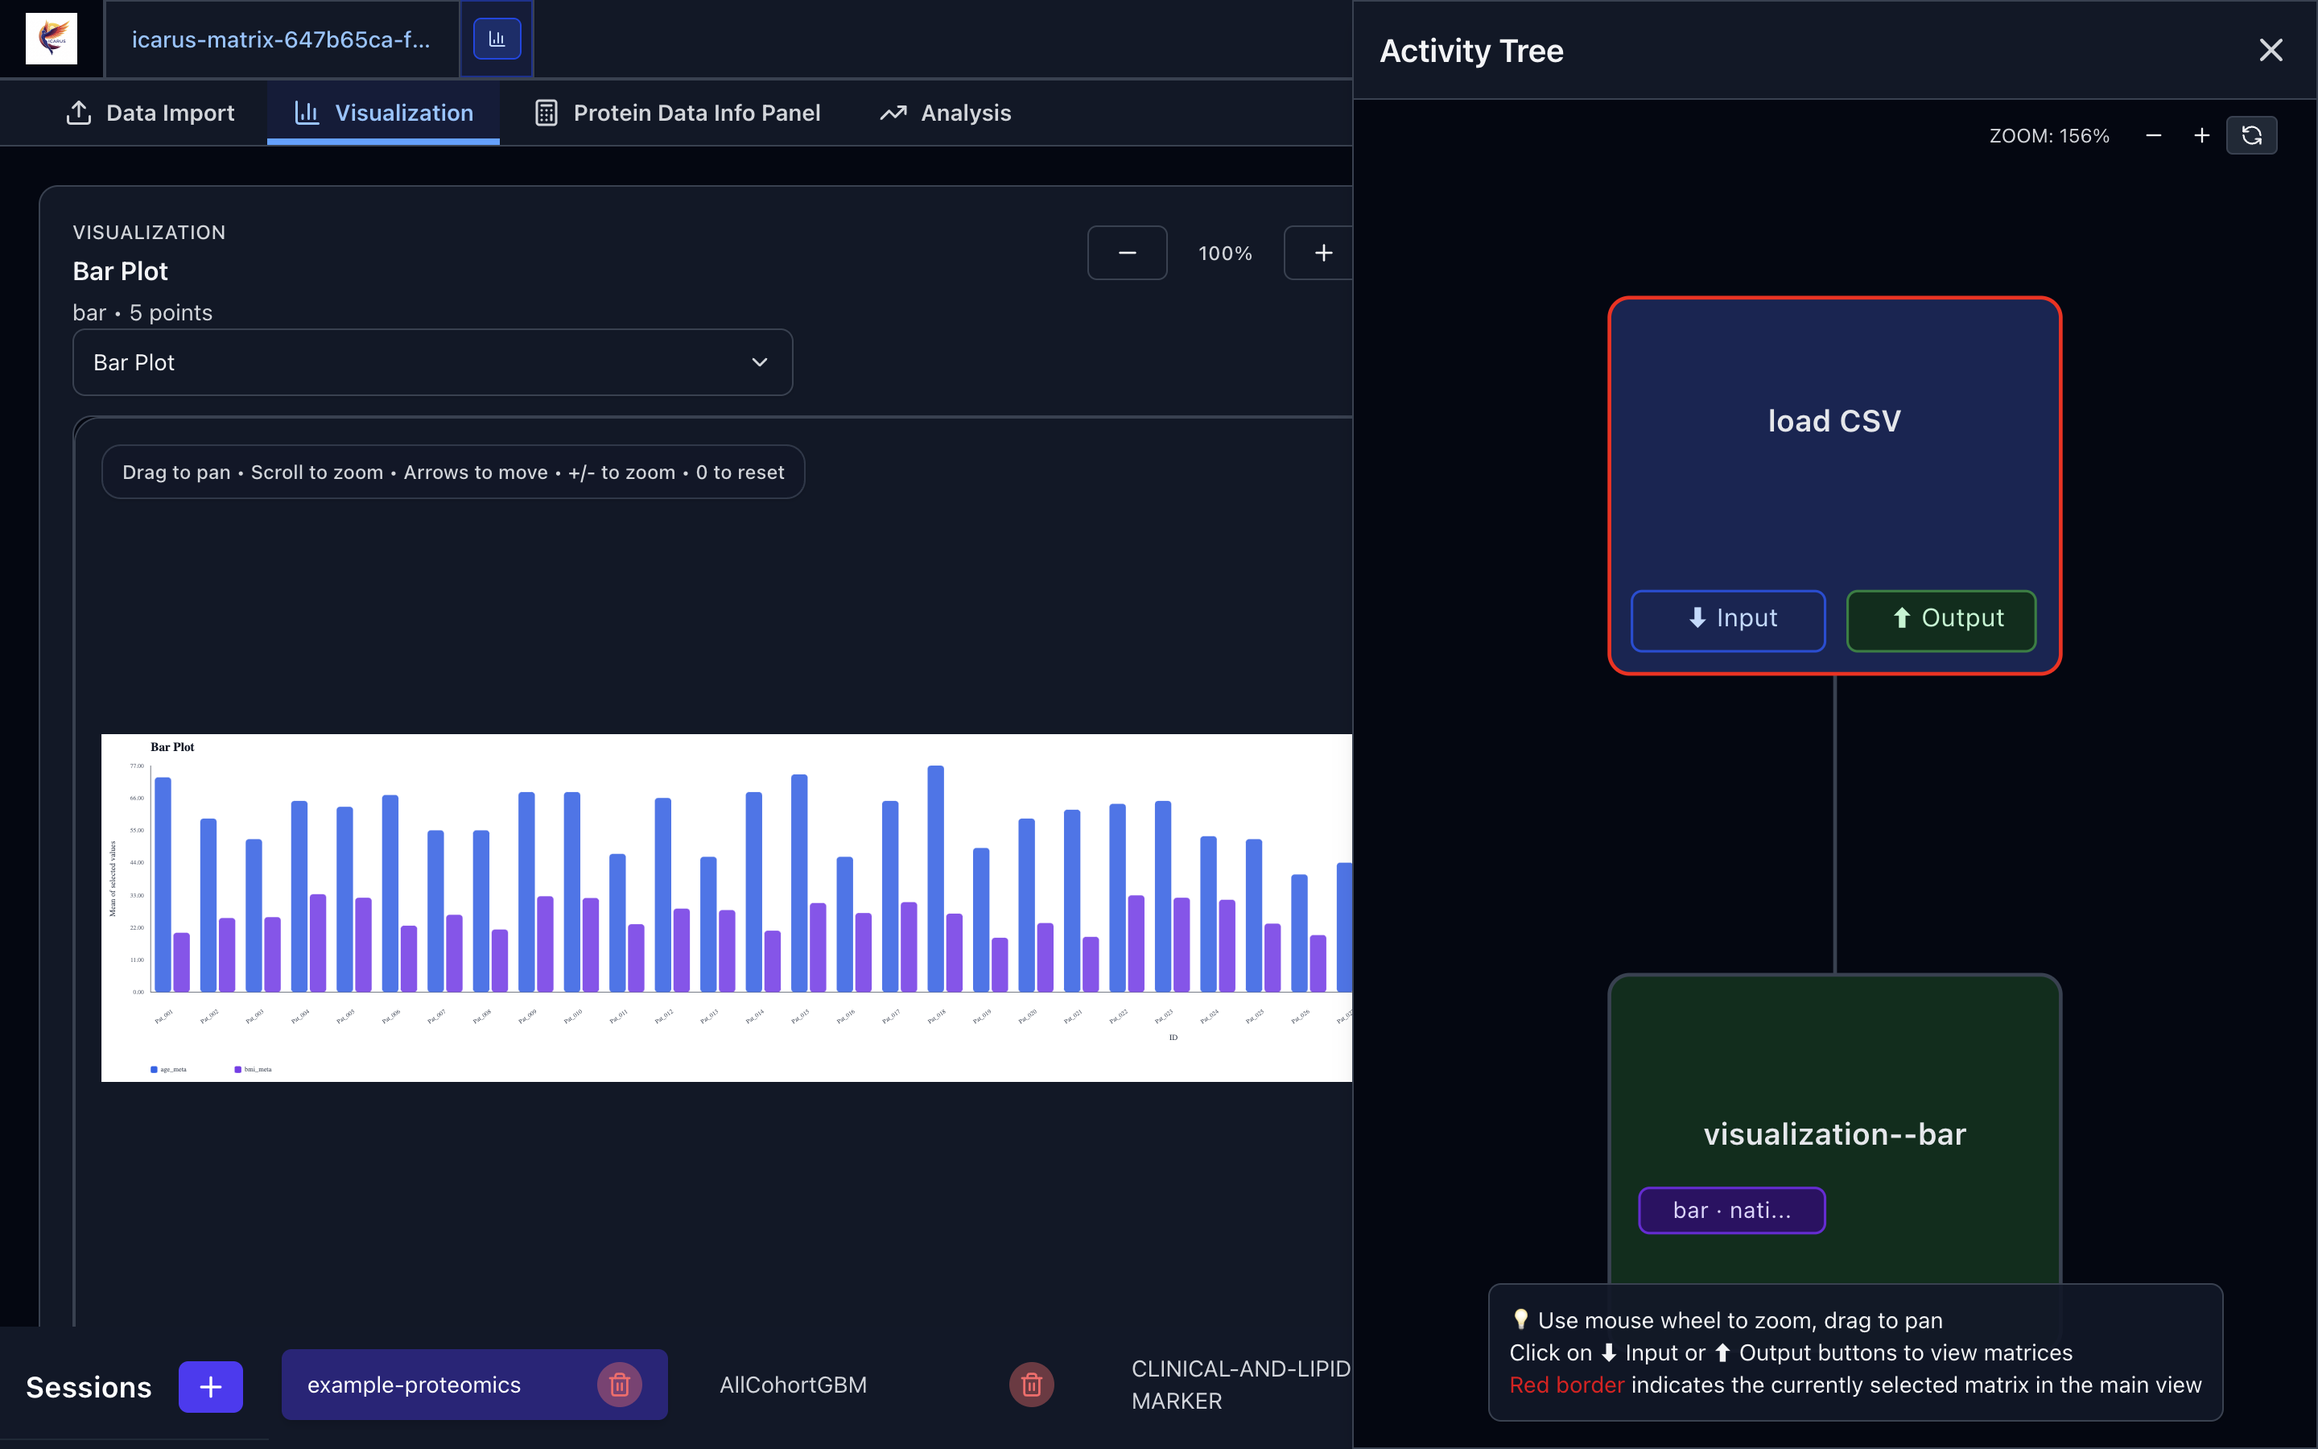
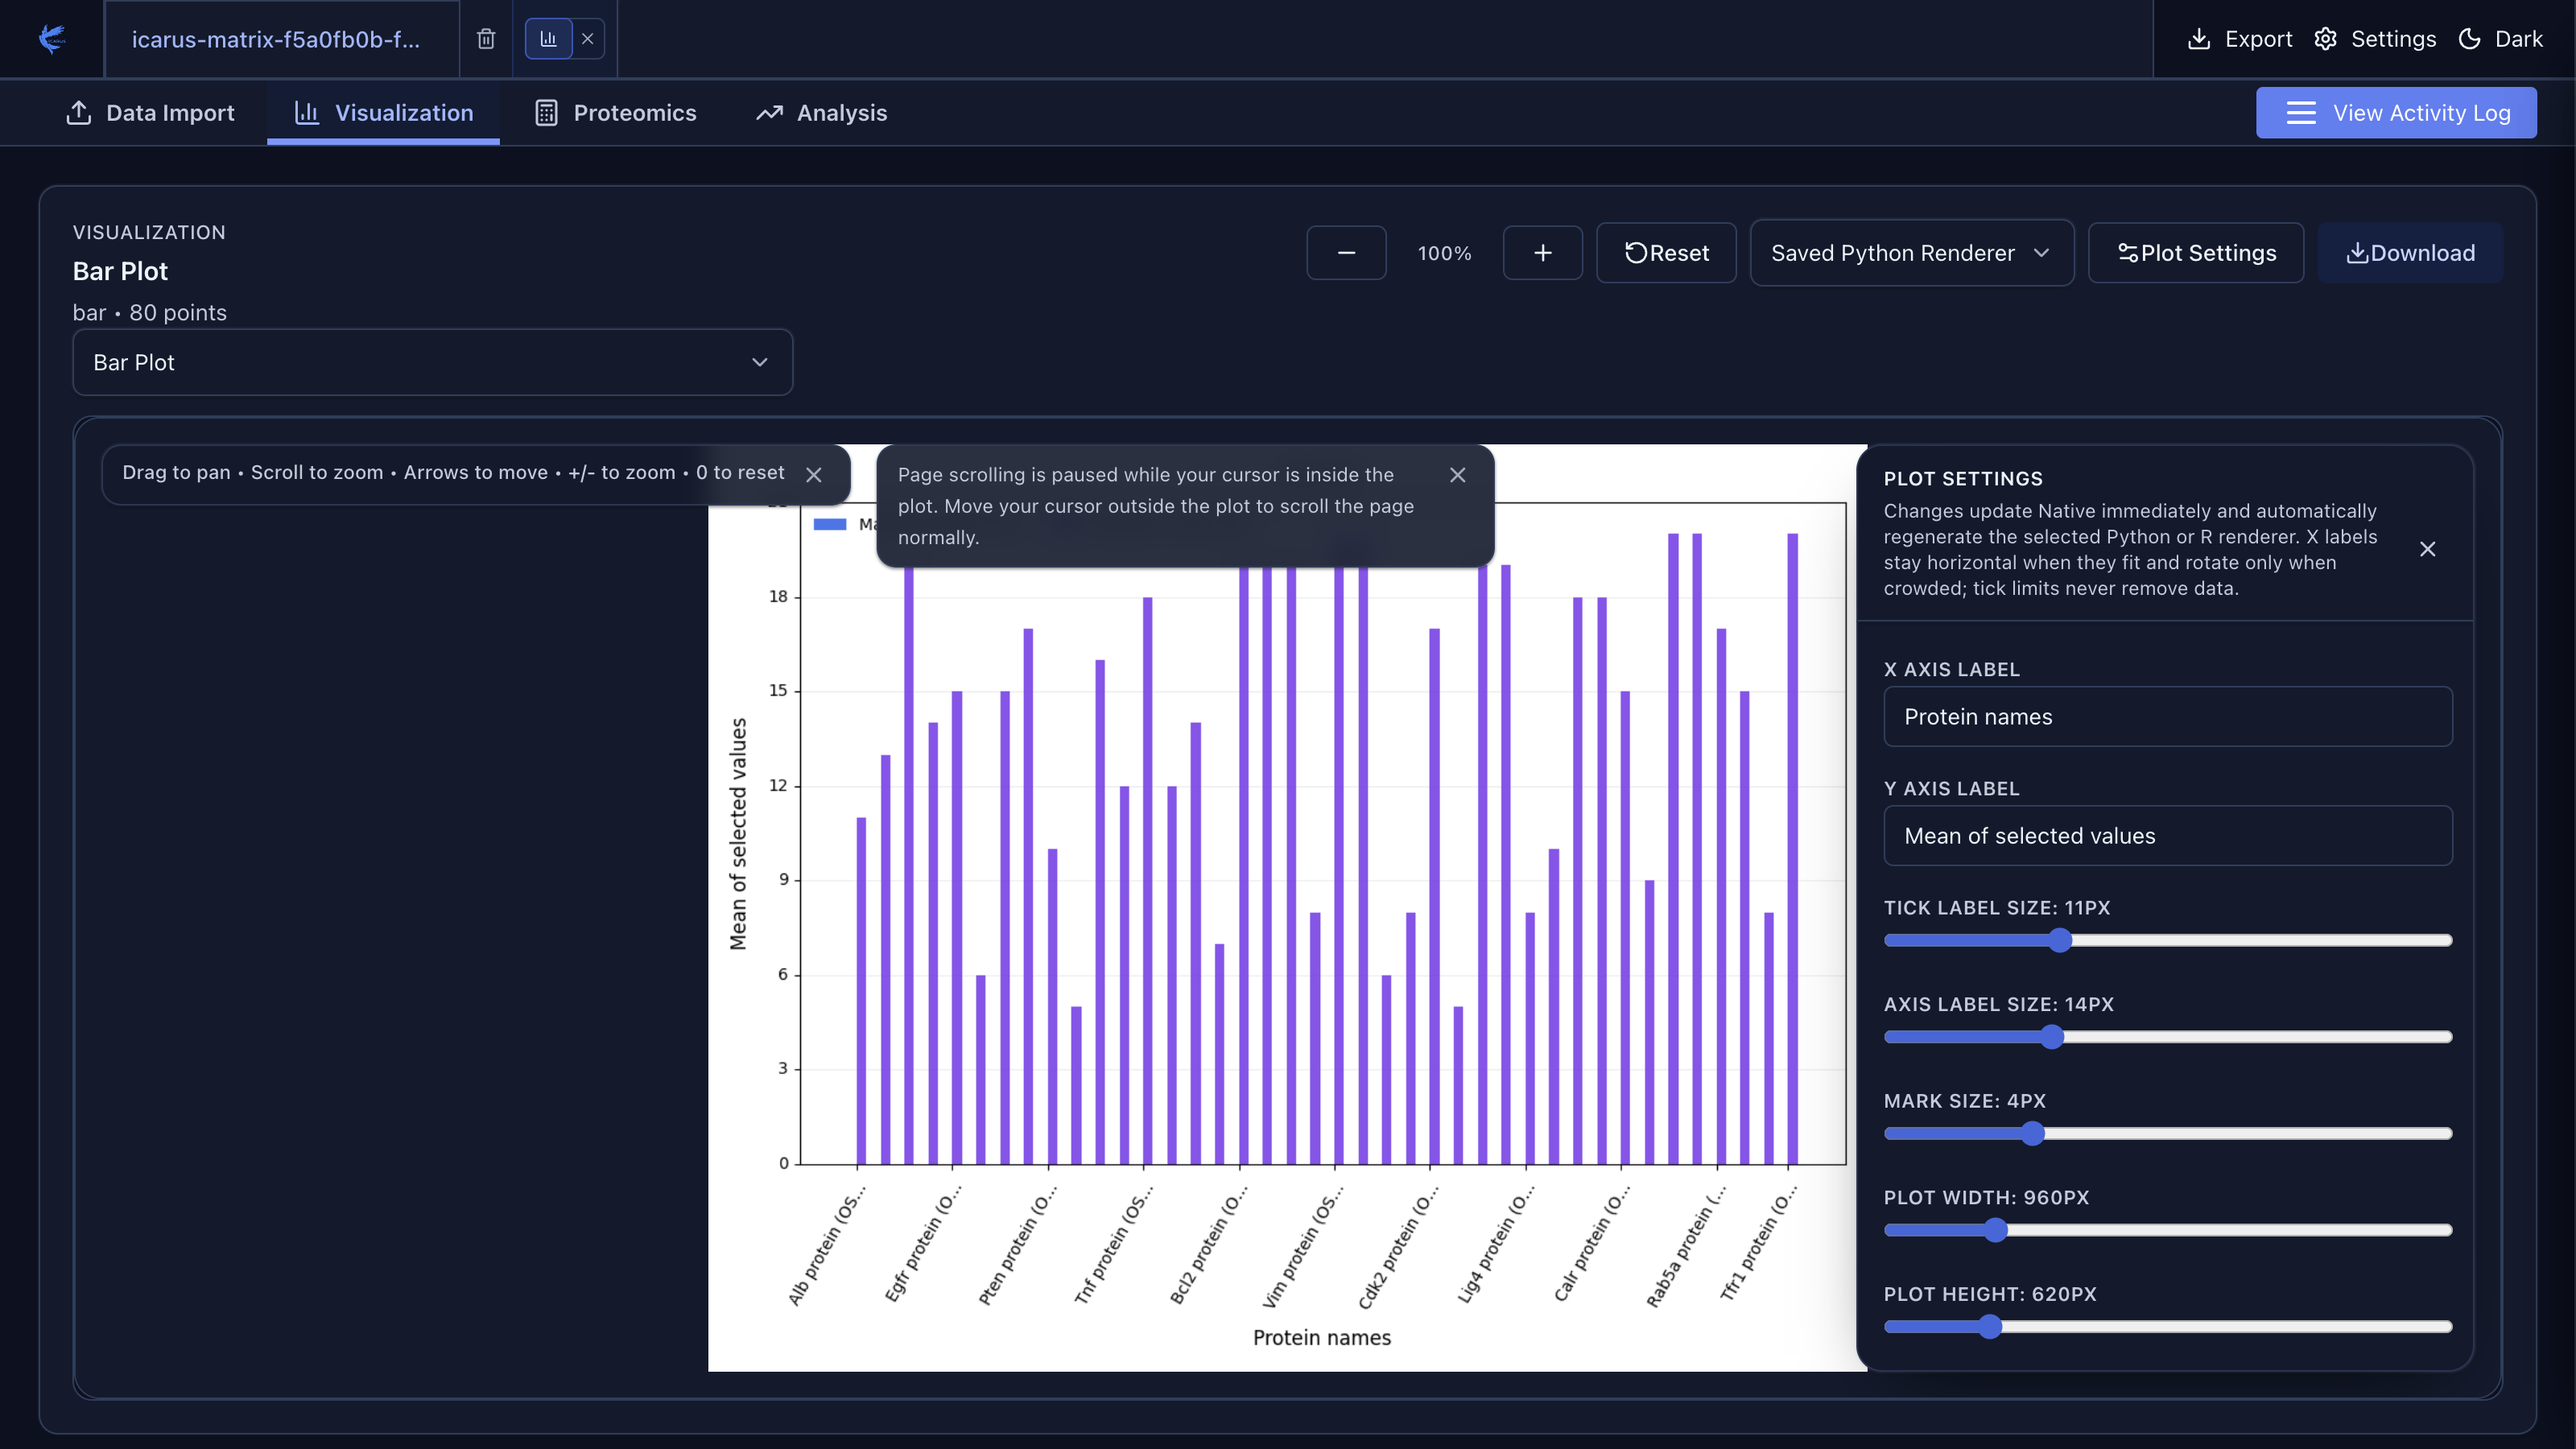
add renderer CSP and themed panel screenshots to README

diff --git a/vite.config.ts b/vite.config.ts
@@ -10,9 +10,38 @@ const sharedAliases = {
   'pub@': path.resolve(__dirname, 'public'),
 }
 
+// Content Security Policy for production builds. The renderer loads bundled
+// scripts and workers from disk, renders plots as data/blob image URLs, and
+// styles components through inline style attributes; nothing else is needed.
+// Injected only on `build` so the dev server keeps HMR and inline preamble.
+const CSP_DIRECTIVES = [
+  "default-src 'self'",
+  "script-src 'self'",
+  "worker-src 'self' blob:",
+  "style-src 'self' 'unsafe-inline'",
+  "img-src 'self' data: blob:",
+  "font-src 'self' data:",
+  "connect-src 'self'",
+  "object-src 'none'",
+  "base-uri 'self'",
+  "form-action 'none'",
+].join('; ')
+
+const injectCspMeta = () => ({
+  name: 'inject-csp-meta',
+  apply: 'build' as const,
+  transformIndexHtml(html: string) {
+    return html.replace(
+      '<head>',
+      `<head>\n    <meta http-equiv="Content-Security-Policy" content="${CSP_DIRECTIVES}" />`
+    )
+  },
+})
+
 // https://vitejs.dev/config/
 export default defineConfig({
   plugins: [
+    injectCspMeta(),
     react(),
     tailwindcss(),
     electron({

diff --git a/README.md b/README.md
@@ -18,6 +18,7 @@ The current app is built around a few core ideas:
 - renderer-aware plots (`Python` with Matplotlib, `R` with ggplot2, and native)
 - a dark-mode capable desktop UI
 - a workflow/activity tree that lets users navigate analysis history and linked outputs
+- a CSP-hardened production renderer
 
 ---
 
@@ -110,6 +111,11 @@ The solid arrows are logical data-flow relationships reconstructed from IDs; the
 - Persistent theme selection
 - Dark-mode coverage across tables, forms, menus, activity tree surfaces, modals, and visualization panels
 
+### Renderer security
+
+- Production builds ship a strict Content Security Policy (`default-src 'self'`, no inline scripts, no `unsafe-eval`) injected into `dist/index.html` at build time
+- The policy allowlists exactly what the renderer needs: bundled scripts and Web Workers, data/blob plot images, and inline style attributes; dev-server HMR is unaffected since the meta is build-only
+
 ### Desktop packaging
 
 - Electron desktop application
@@ -133,6 +139,7 @@ The solid arrows are logical data-flow relationships reconstructed from IDs; the
 - [x] Statistics hook cleanup and utility separation
 - [x] More resilient import parsing pipeline
 - [x] CI packaging cleanup for desktop release flow
+- [x] Content Security Policy for the packaged renderer
 
 ---
 
@@ -162,7 +169,7 @@ The visualization workspace supports plot-library driven creation and renderer-a
 <img width="1600" alt="Icarus visualization viewer with the plot settings panel open" src="./docs/images/plot-settings.png" />
 
 ##### Native - Recharts
-<img width="1600" alt="Icarus visualization viewer displaying a grouped bar plot with the saved native renderer" src="./docs/images/visualization-dark.png" />
+<img width="1600" alt="Icarus visualization viewer displaying a grouped bar plot with the saved native renderer" src="./docs/images/native-recharts-sample.png" />
 
 
 #### Python and R renderer samples
@@ -184,6 +191,84 @@ Alongside the Recharts bar plot shown above, these captures show the same groupe
 #### Dark mode import workspace
 ##### Dark mode is supported across the table view, statistics menu, activity tree, and visualization workspace, with persistent `light`, `dark`, and `system` theme selection.
 <img width="1600" alt="Icarus dark-mode import workspace captured from the Electron app" src="./docs/images/dark-mode-home.png" />
+
+---
+
+### Current-release supplements (v0.0.155)
+
+Full-frame captures of every panel in both themes, taken with sidebars and sheets closed so each view fills the frame. The Visualization shots show a rendered Python/Matplotlib bar plot; the Proteomics shot shows computed summary statistics and the intensity distribution.
+
+#### App overview
+
+Session workspace with the sidebar open, showing session management, matrix tabs, and the activity log entry point.
+
+#### Dark mode
+<img width="1600" alt="Icarus session workspace with the sessions sidebar open in dark mode" src="./docs/images/sessions-sidebar-dark.png" />
+
+#### Light mode
+<img width="1600" alt="Icarus session workspace with the sessions sidebar open in light mode" src="./docs/images/sessions-sidebar-light.png" />
+
+#### Data import
+
+The upload screen for starting a session, followed by the table-first `Data Import` view rendered directly over the columnar table.
+
+##### Upload screen
+###### Dark mode
+<img width="1600" alt="Icarus data upload screen in dark mode" src="./docs/images/import-upload-dark.png" />
+
+###### Light mode
+<img width="1600" alt="Icarus data upload screen in light mode" src="./docs/images/import-upload-light.png" />
+
+##### Imported matrix table
+###### Dark mode
+<img width="1600" alt="Icarus data import table view in dark mode" src="./docs/images/import-table-dark.png" />
+
+###### Light mode
+<img width="1600" alt="Icarus data import table view in light mode" src="./docs/images/import-table-light.png" />
+
+#### Proteomics tab
+
+Dedicated proteomics analysis surface with column-focused statistics, imputation, normalization, and differential-expression oriented activities.
+
+###### Dark mode
+<img width="1600" alt="Icarus proteomics analysis tab in dark mode" src="./docs/images/proteomics-dark.png" />
+
+###### Light mode
+<img width="1600" alt="Icarus proteomics analysis tab in light mode" src="./docs/images/proteomics-light.png" />
+
+#### Analysis panel
+
+###### Dark mode
+<img width="1600" alt="Icarus analysis workspace tab in dark mode" src="./docs/images/analysis-dark.png" />
+
+###### Light mode
+<img width="1600" alt="Icarus analysis workspace tab in light mode" src="./docs/images/analysis-light.png" />
+
+#### Visualization workspace
+
+Plot-library driven creation with renderer-aware viewing across Python (Matplotlib), R (ggplot2), saved output, and native rendering.
+
+###### Dark mode
+<img width="1600" alt="Icarus visualization workspace showing a rendered Matplotlib bar plot in dark mode" src="./docs/images/visualization-dark.png" />
+
+###### Light mode
+<img width="1600" alt="Icarus visualization workspace showing a rendered bar plot in light mode" src="./docs/images/visualization-light.png" />
+
+#### Settings and export
+
+Settings sheet with theme selection (`light`, `dark`, `system`), export defaults, storage usage, and the export sheet with format, delimiter, and scope options.
+
+###### Settings — dark mode
+<img width="1600" alt="Icarus settings sheet in dark mode" src="./docs/images/settings-dark.png" />
+
+###### Export — dark mode
+<img width="1600" alt="Icarus export sheet in dark mode" src="./docs/images/export-dark.png" />
+
+###### Settings — light mode
+<img width="1600" alt="Icarus settings sheet in light mode" src="./docs/images/settings-light.png" />
+
+###### Export — light mode
+<img width="1600" alt="Icarus export sheet in light mode" src="./docs/images/export-light.png" />
 
 
 ---
